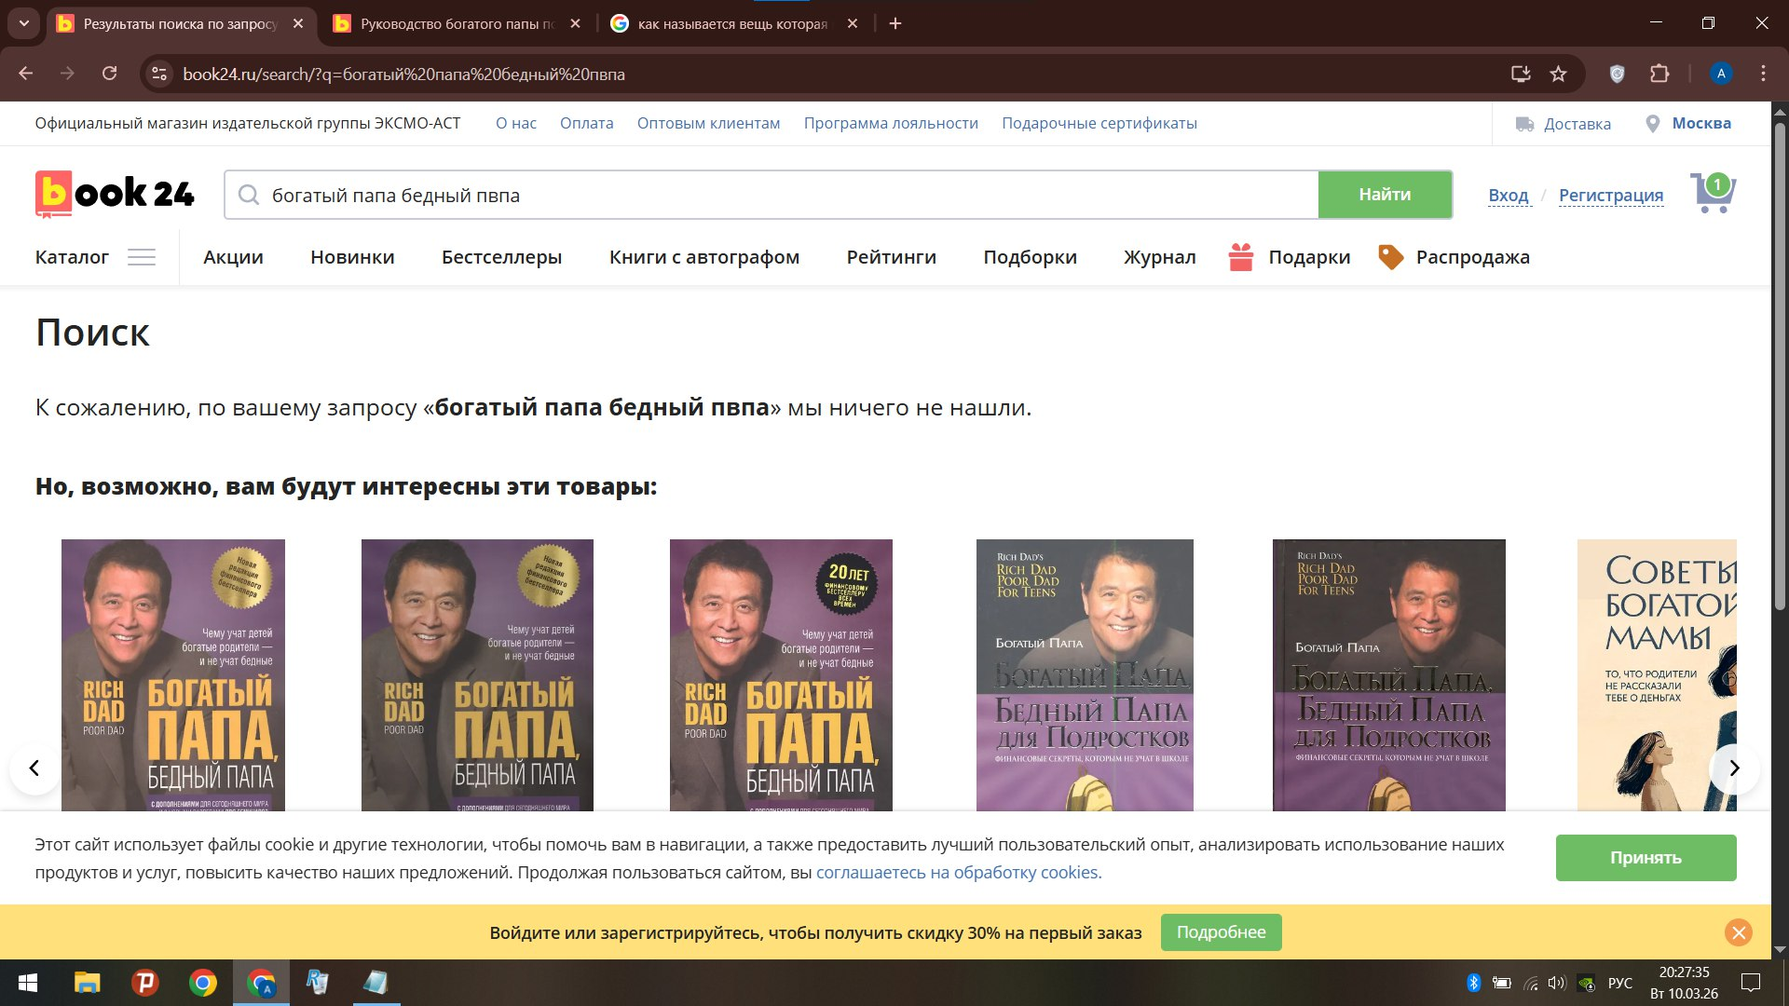
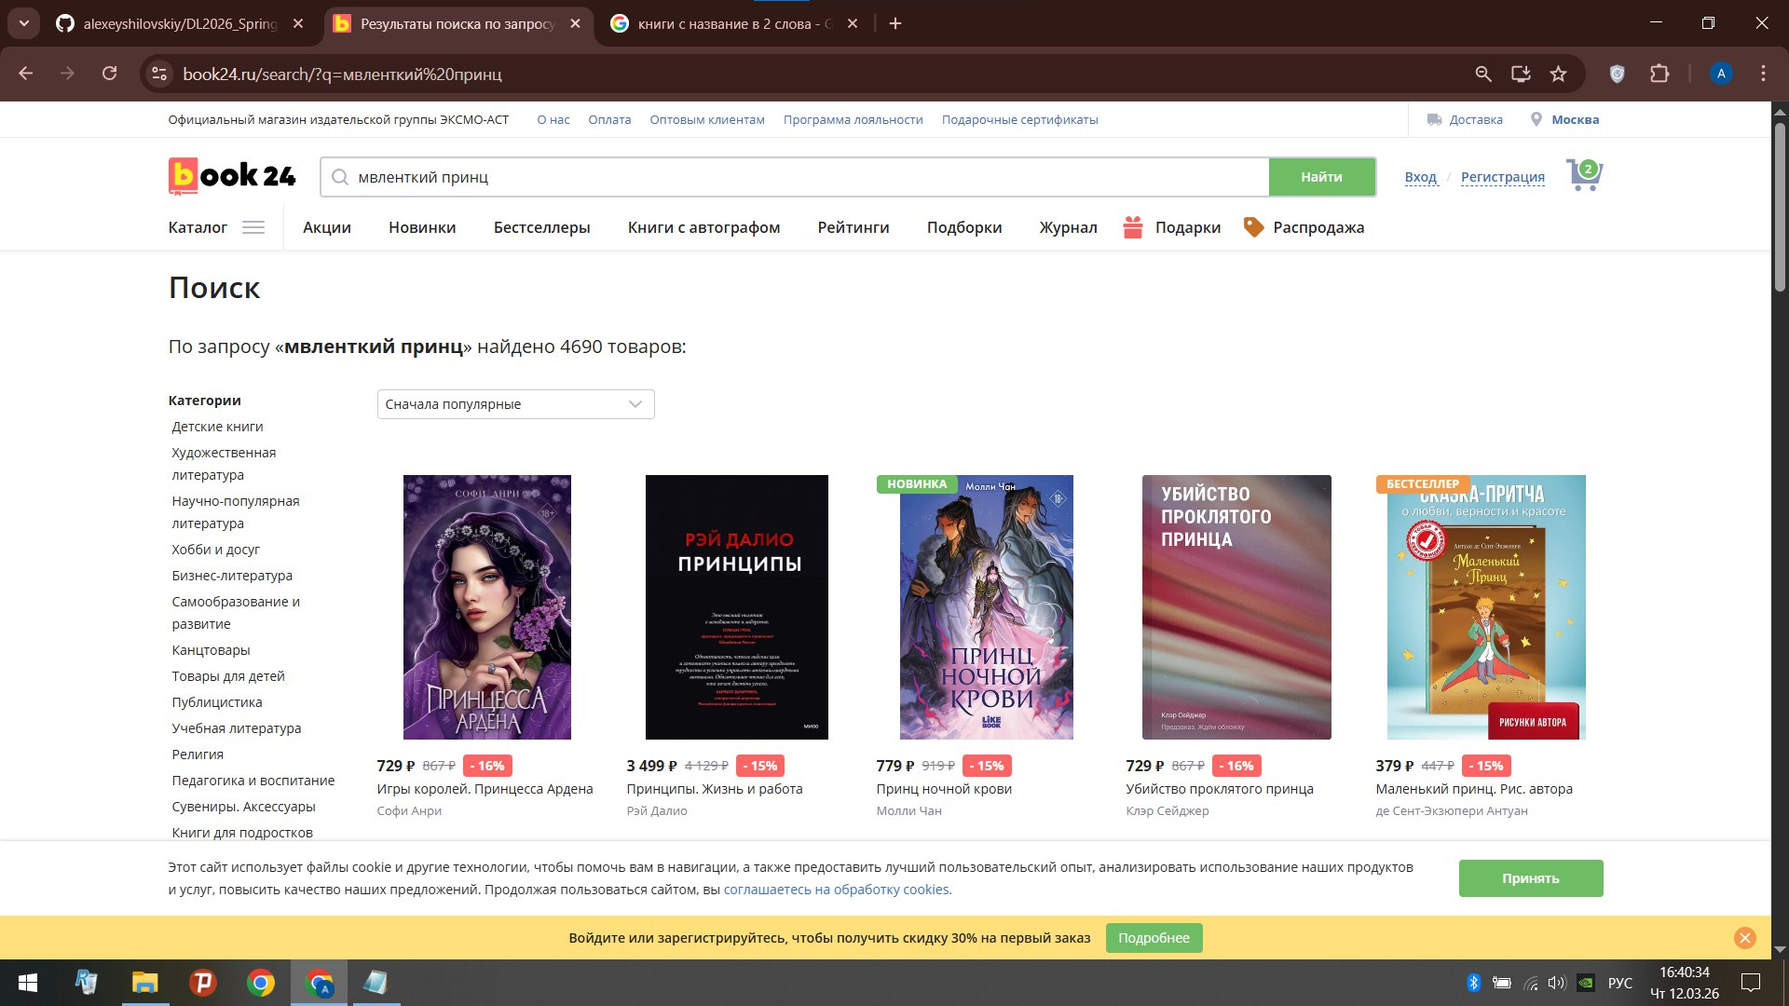
Add info in /ba, add new screenshot_from_page

diff --git a/ba/03_problems_detailed.md b/ba/03_problems_detailed.md
@@ -1,0 +1,53 @@
+# Детальный анализ проблем пользователей Book24.ru
+
+## Проблема 1: Плохо оптимизированная обработка пользовательских опечаток в поиске
+
+### Описание проблемы
+При вводе в поисковой строке названия книги с ошибкой пользователь видит сообщение:
+> «К сожалению, по вашему запросу «ЗАПРОС» мы ничего не нашли.»
+
+Хотя ниже в блоке «Вам может быть интересно» искомая книга часто присутствует.
+
+### Наблюдаемые сценарии (на основе реального поведения сайта)
+1. **Опечатка в названии книги**
+   - *Пример:* Пользователь ввел «Марфий» вместо «Морфий» (книга М. Булгакова)
+   - *Результат:* Сообщение «ничего не нашли», хотя книга есть в базе
+
+2. **Опечатка в фамилии автора**
+   - *Пример:* Пользователь ищет «Булгавков» вместо «Булгаков»
+   - *Результат:* Поиск "съедает" фамилию и ищет только по имени «Михаил», выдавая книги всех авторов с именем Михаил
+
+### Влияние на пользовательский опыт
+- Пользователь тратит дополнительное время на исправление запроса
+- Создается впечатление, что нужной книги нет на сайте
+- Пользователь может уйти к конкуренту, даже если книга есть в наличии
+
+### Корневые причины (на основе анализа)
+- Отсутствует корректура текста (исправление опечаток) на уровне поискового движка
+- Поиск по автору использует неточный алгоритм (частичное совпадение без приоритета точности)
+- Блок «Вам может быть интересно» не интегрирован с основным поиском
+
+---
+
+## Проблема 2: Несогласованность контента в карточке товара
+
+### Описание проблемы
+На сайте отсутствует единый стандарт наполнения карточек книг. Это видно при сравнении разных книг.
+
+| Тип контента | Пример: новинка/хит | Пример: нишевая книга |
+|--------------|---------------------|------------------------|
+| Ознакомительный фрагмент | ✅ Есть (например, у книги «Морфий») | ❌ Часто отсутствует |
+| Отзывы | ✅ Есть несколько | ❌ Может не быть ни одного |
+| Подробное описание | ✅ Развернутое | ❌ Только краткая аннотация |
+
+*Примечание:* Это наблюдение основано на реальном просмотре разных книг на сайте.
+
+### Влияние на пользовательский опыт
+- Пользователь не может принять решение о покупке незнакомой книги
+- Доверие вызывает только то, что уже популярно (хиты, бестселлеры)
+- Нишевые, но качественные книги остаются незамеченными
+
+### Корневые причины (гипотетические)
+- Процесс наполнения карточек, вероятно, ручной и не имеет четких стандартов для всего ассортимента
+- Приоритет отдается новинкам и потенциальным хитам
+- Отсутствует автоматическое обогащение контента (например, парсинг аннотаций)

diff --git a/ba/04_glossary.md b/ba/04_glossary.md
@@ -1,0 +1,24 @@
+# Глоссарий терминов Book24.ru
+
+Термины, используемые в анализе:
+
+| Термин | Определение | Где используется |
+|--------|-------------|------------------|
+| **Авторизация** | Процесс входа пользователя в существующий аккаунт | Раздел 1.2 (оформление заказа) |
+| **Бестселлеры** | Книги, которые продаются лучше всего в данный период | Раздел 1.1 (описание главной страницы) |
+| **Избранное / Отложенные** | Раздел, где пользователь может сохранять книги для будущей покупки | Раздел 1.2 (шаг 7) |
+| **Карточка товара** | Страница с подробной информацией о конкретной книге | Раздел 1.2 (шаг 6), раздел 1.3 |
+| **Корзина** | Раздел, где собраны товары, готовые к оформлению заказа | Раздел 1.2 (шаги 7-9) |
+| **Корректура текста** | Исправление опечаток и ошибок в поисковых запросах | Раздел 1.3 (проблема поиска) |
+| **Конверсия** | Переход пользователя к целевому действию (например, покупке) | Раздел 2.2 (стратегическая цель) |
+| **Нишевая литература** | Книги для узкой аудитории, не являющиеся массовыми бестселлерами | Раздел 1.3 |
+| **Новинки** | Книги, недавно поступившие в продажу | Раздел 1.1 (описание главной) |
+| **Ознакомительный фрагмент** | Несколько страниц книги, доступные для просмотра до покупки | Раздел 1.3 |
+| **Опечатка** | Ошибка в написании слова при поиске | Раздел 1.3 |
+| **Отзывы** | Мнения пользователей о прочитанных книгах | Раздел 1.2, раздел 1.3 |
+| **Поисковый запрос** | Текст, который пользователь вводит в строку поиска | Раздел 1.2, раздел 1.3 |
+| **Промокод** | Специальный код для получения скидки или бонуса | Раздел 1.2 (корзина) |
+| **Пустой поисковый запрос** | Ситуация, когда поиск не находит ни одного товара | Раздел 1.3 |
+| **Регистрация** | Создание нового аккаунта на сайте | Раздел 1.2 |
+| **Хиты** | Самые популярные книги (синоним бестселлеров) | Раздел 1.1 |
+| **Эффект листания** | Возможность пролистать несколько страниц книги онлайн | Раздел 1.3 |

diff --git a/ba/01_users_and_functions.md b/ba/01_users_and_functions.md
@@ -1,0 +1,35 @@
+# Анализ пользователей Book24.ru
+
+## Общая информация
+Book24.ru — интернет-магазин издательской группы Эксмо-АСТ. 
+**Издательства:** «Эксмо», «АСТ», «Манн, Иванов и Фербер», «Азбука», «Альпина», «Синдбад».
+**Дополнительные бренды:** «БОМБОРА», «Corpus», «Mainstream», «Редакция Елены Шубиной», «Вилли-Винки», «Fanzon», «Комильфо», «Канц-Эксмо».
+
+## Сегменты пользователей
+
+### 1. Активные читатели (ядро аудитории)
+| Характеристика | Описание |
+|----------------|----------|
+| **Демография** | 25-45 лет, преимущественно женщины (65-70%) |
+| **Поведение** | Покупают 3+ книги в месяц, следят за новинками, участвуют в программе лояльности |
+| **Сценарии использования** | • Еженедельные визиты на сайт<br>• Использование «Отложенных» и «Избранного»<br>• Чтение отзывов и рейтингов |
+| **Потребности** | Быть в курсе новинок любимых авторов, получать персонализированные рекомендации |
+| **Боли** | Однотипные рекомендации, сложно отслеживать новинки |
+
+### 2. Покупатели подарков и нишевых товаров
+| Характеристика | Описание |
+|----------------|----------|
+| **Демография** | 20-55 лет, гендерный баланс 50/50 |
+| **Поведение** | Покупают 1-2 раза в квартал, часто ищут подарочные издания, канцелярию |
+| **Сценарии использования** | • Поиск по тематикам (подарки детям, коллегам)<br>• Покупка сопутствующих товаров |
+| **Потребности** | Быстрый поиск по поводам, возрастным категориям |
+| **Боли** | Непонятно, что подходит для конкретного случая |
+
+### 3. Эпизодические/новые пользователи
+| Характеристика | Описание |
+|----------------|----------|
+| **Демография** | Любой возраст |
+| **Поведение** | Пришли по акции, за конкретной книгой из списка, по рекламе |
+| **Сценарии использования** | • Единоразовая покупка<br>• Регистрация ради скидки 30% |
+| **Потребности** | Простая навигация, выгодное первое предложение |
+| **Боли** | Сложная регистрация, непонятные условия доставки |

diff --git a/ba/02_user_stories.md b/ba/02_user_stories.md
@@ -1,0 +1,54 @@
+# Пользовательские истории (User Stories)
+
+На основе анализа поведения сайта Book24.ru выявлены следующие пользовательские сценарии:
+
+## Epic: Поиск книг
+
+**US-001: Поиск по названию с опечаткой**
+> Как пользователь,
+> Я хочу, чтобы поиск находил книгу, даже если я ошибся в названии,  
+> Чтобы мне не приходилось исправлять запрос или искать вручную.
+
+**Подтверждение проблемы:**
+При вводе «мвленткий принц» (вместо «маленький принц») поиск не находит книгу сразу, хотя она есть в базе.
+
+[![Cкриншот "Маленький принц" ](other/screenshot_from_book.jpg)](other/screenshot_from_book.jpg)
+
+---
+
+**US-002: Поиск по автору**
+> Как пользователь,  
+> Я хочу, чтобы поиск находил книги конкретного автора, даже если я ошибся в фамилии,  
+> Чтобы в результатах были только его книги.
+
+**Подтверждение проблемы:**
+При поиске «роберт кийоски» (вместо «Роберт Кийосаки») поиск выдает книги всех авторов с именем Роберт.
+
+[![Cкпингшот по атору ](other/screenshot_about_authors.jpg)](other/screenshot_about_authors.jpg)
+
+---
+
+## Epic: Принятие решения о покупке
+
+**US-003: Ознакомление с содержанием**
+> Как пользователь, рассматривающий незнакомую книгу,  
+> Я хочу видеть ознакомительный фрагмент или несколько страниц,  
+> Чтобы понять, подходит ли мне эта книга по стилю.
+
+**Подтверждение проблемы:**
+На сайте ознакомительные фрагменты есть не у всех книг, особенно у старых или нишевых изданий.
+
+[![Скриншот по странице книги](other/screenshot_from_page.jpg)](other/screenshot_from_page.jpg)
+
+---
+
+**US-004: Отзывы других читателей**
+> Как пользователь, сомневающийся в покупке,  
+> Я хочу читать отзывы других покупателей,  
+> Чтобы принять более взвешенное решение.
+
+**Подтверждение проблемы:**
+У некоторых книг отзывы отсутствуют полностью, у других — их несколько, смотрите на скриншот выше "Скриншот по странице книги".
+
+
+

diff --git a/README.md b/README.md
@@ -45,7 +45,7 @@ Book24.ru - это интернет-магазин издательской гр
 **Блок-схема процесса**
 [![Блок-схема процесса покупки книги](pm/DL2026_Spring_TPM1_Shilovskij.png)](pm/DL2026_Spring_TPM1_Shilovskij.png)
 
-**Пошаговое пояснение к схеме:**
+**Пошаговое пояснение к схеме(некоторые этамы объеденены):**
 
 1.  **Вход на сайт (Начало):** Пользователь попадает на главную страницу, где видит новинки, бестселлеры, подборки.
 2.  **Поиск нужной книги:** Пользователь либо вводит название/автора в строку поиска, либо использует навигацию по каталогу, тематическим подборкам или рейтингам.
